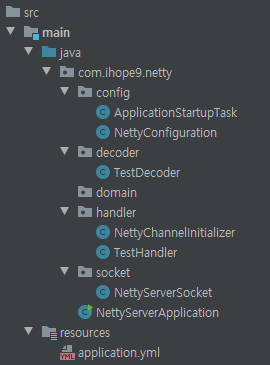
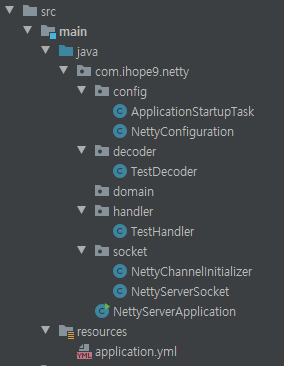
Spring Boot - Netty (2) 완성

diff --git a/_posts/2020-12-14-SpringBoot-Netty-2-SocketServer.md b/_posts/2020-12-14-SpringBoot-Netty-2-SocketServer.md
@@ -1,7 +1,7 @@
 ---
 layout: article
-title: Spring Boot + Netty TCP 소켓 서버 (2) 기본 구조 구현
-tags: [java, spring, netty]
+title: Spring Boot + Netty TCP 소켓 서버 (2) 기본 에코 서버 구현
+tags: [java, spring, netty, tcp/ip]
 aside:
     toc: true
 ---
@@ -10,6 +10,12 @@ aside:
 업무에서 구현한 서버는 gradle 멀티 프로젝트로 구현되어 있습니다. 그리고 네티 소켓 서버는 하위 프로젝트 중 하나입니다. 본 글에서는 단일 프로젝트로 생성하는 방법으로 작성하겠습니다.<br/>
 스프링 프레임워크에 네티를 적용하는 전체 구조는  [만티스쿠바님의 깃허브](https://github.com/zbum/netty-spring-example)를 참고했습니다.
 그 안에서 동작하는 네트의 구성 요소는 [Netty 공식 홈페이지](https://netty.io/wiki/user-guide-for-4.x.html)를 참고했습니다. <br/>
+
+본 서버는 TCP 기반의 서버로, 스트림 기반(stream-base) 송수신입니다. 스트림 기반에서는 데이터가 소켓 내 `receive buffer`에 쌓입니다. 그리고 이 데이터는 패킷 단위로 쌓이지 않고, 바이트 배열로 쌓입니다.
+즉, 클라이언트에서 두 개의 패킷을 따로 전송한다고 해도 **서버는 이를 하나의 바이트 배열**로 받습니다. 따라서 TCP 기반의 서버를 구현할 때는 **쌓여 있는 바이트 배열을 어떤 기준으로 나누어 읽을지 규칙**을 세워야 합니다.<br/>
+
+네티를 사용하며 느낀 강점 중 하나가 바로 이 지점에서 나옵니다. 네티는 바이트 배열을 유의미한 단위로 끊어서 읽을 수 있도록 다양한 `decoder` 클래스를 제공합니다. `decoder`를 잘 구현하면 클라이언트와 합의한 프로토콜에 맞게 패킷을 읽어올 수 있습니다.<br/>
+이 글에서는 클라이언트에서 정해진 길이(2048 bytes)를 하나의 패킷으로 읽어 오는 서버를 예시로 작성하였습니다. 또한, 읽어온 데이터를 다시 그대로 전송하는 에코 서버로 구현했습니다. (실제 업무에서는 이렇게 규약을 세우는 경우는 거의 없겠지만요😅) <br/>
 
 ### build.gradle
 
@@ -31,10 +37,6 @@ dependencies {
 ![Spring-Netty_프로젝트_구조도](/assets/images/structure/spring-netty-basic.png)
 
 ## 소스 코드
-본 서버는 TCP 기반의 서버로, 스트림 기반(stream-base) 송수신입니다. 이러한 데이터는 소켓 내 `receive buffer` 내에 쌓입니다. 스트림 기반 데이터는 패킷 단위로 데이터가 쌓이지 않고, 바이트로 쌓입니다.
-즉, 클라이언트에서 두 개의 패킷을 따로 전송한다고 해도 서버는 이를 하나의 바이트 배열로 받습니다. 따라서 TCP 기반의 서버를 구현할 때는 **쌓여 있는 바이트 배열을 어떤 기준으로 나누어 읽을지 규칙**을 세워야 합니다.<br/>
-네티를 사용하며 느낀 강점 중 하나가 바이트 배열을 유의미한 단위로 끊어서 읽을 수 있도록 많은 `decoder` 클래스를 제공한다는 점입니다. `decoder`를 잘 구현하면 클라이언트와 합의한 프로토콜에 맞게 패킷을 읽어올 수 있습니다.<br/>
-이 글에서는 클라이언트에서 정해진 길이(2048 bytes)를 하나의 패킷으로 읽어 오는 서버를 예시로 작성하였습니다. (실제 업무에서는 이렇게 규약을 세우는 경우는 거의 없겠지만요😅) <br/>
 네티 객체에 대한 설명은 코드 내 주석에 작성했습니다. 클래스는 참고하기 편하도록 구조도 내 패키지 순으로 정리하였습니다.<br/>
 ### root package
 #### NettyServerApplication
@@ -148,6 +150,95 @@ public class NettyConfiguration {
 + 네티 설정을 위한 클래스입니다.
 + `@Value` 어노테이션으로 스프링의 설정 파일(`application.yml` 혹은 `application.properties`)을 읽어 옵니다.
 
+### decoder package
+#### TestDecoder
+```java
+import io.netty.buffer.ByteBuf;
+import io.netty.channel.ChannelHandlerContext;
+import io.netty.handler.codec.ByteToMessageDecoder;
+import lombok.RequiredArgsConstructor;
+import org.springframework.stereotype.Component;
+
+import java.util.List;
+
+@Component
+@RequiredArgsConstructor
+public class TestDecoder extends ByteToMessageDecoder {
+    private int DATA_LENGTH = 2048;
+
+    @Override
+    protected void decode(ChannelHandlerContext ctx, ByteBuf in, List<Object> out) throws Exception {
+        if (in.readableBytes() < DATA_LENGTH) {
+            return;
+        }
+
+        out.add(in.readBytes(DATA_LENGTH));
+    }
+}
+```
++ 정해진 길이(`DATA_LENGTH`)만큼 데이터가 들어올 때까지 기다립니다.
+
+### handler package
+#### TestHandler
+```java
+import io.netty.buffer.ByteBuf;
+import io.netty.channel.ChannelFuture;
+import io.netty.channel.ChannelFutureListener;
+import io.netty.channel.ChannelHandler;
+import io.netty.channel.ChannelHandlerContext;
+import io.netty.channel.ChannelInboundHandlerAdapter;
+import lombok.RequiredArgsConstructor;
+import lombok.extern.slf4j.Slf4j;
+import org.springframework.stereotype.Component;
+
+@Slf4j
+@Component
+@ChannelHandler.Sharable
+@RequiredArgsConstructor
+public class TestHandler extends ChannelInboundHandlerAdapter {
+    private int DATA_LENGTH = 2048;
+        private ByteBuf buff;
+
+        // 핸들러가 생성될 때 호출되는 메소드
+        @Override
+        public void handlerAdded(ChannelHandlerContext ctx) {
+            buff = ctx.alloc().buffer(DATA_LENGTH);
+        }
+
+        // 핸들러가 제거될 때 호출되는 메소드
+        @Override
+        public void handlerRemoved(ChannelHandlerContext ctx) {
+            buff = null;
+        }
+
+        // 클라이언트와 연결되어 트래픽을 생성할 준비가 되었을 때 호출되는 메소드
+        @Override
+        public void channelActive(ChannelHandlerContext ctx) {
+            String remoteAddress = ctx.channel().remoteAddress().toString();
+            log.info("Remote Address: " + remoteAddress);
+        }
+
+
+        @Override
+        public void channelRead(ChannelHandlerContext ctx, Object msg){
+            ByteBuf mBuf = (ByteBuf) msg;
+            buff.writeBytes(mBuf);  // 클라이언트에서 보내는 데이터가 축적됨
+            mBuf.release();
+
+            final ChannelFuture f = ctx.writeAndFlush(buff);
+            f.addListener(ChannelFutureListener.CLOSE);
+        }
+
+        @Override
+        public void exceptionCaught(ChannelHandlerContext ctx, Throwable cause) {
+            // Close the connection when an exception is raised.
+            ctx.close();
+            cause.printStackTrace();
+        }
+
+}
+```
+
 ### socket package
 #### NettyServerSocket
 ```java
@@ -195,7 +286,6 @@ public class NettyServerSocket {
 ```
 + 네티 서버를 실행하는 클래스입니다. 앞서 `ApplicationStartupTask` 클래스에서 스프링 부트 서비스를 시작할 때 본 클래스의 `start()` 메소드를 실행하도록 설정했습니다.
 
-### handler package
 #### NettyChannelInitializer
 ```java
 import com.ihope9.netty.decoder.TestDecoder;
@@ -215,7 +305,7 @@ public class NettyChannelInitializer extends ChannelInitializer<SocketChannel> {
     protected void initChannel(SocketChannel ch) {
         ChannelPipeline pipeline = ch.pipeline();
 
-        // decoder는 @sharable이 안 됨, 매번 새로운 객체 생성해야 함
+        // decoder는 @Sharable이 안 됨, Bean 객체 주입이 안 되고, 매번 새로운 객체 생성해야 함
         TestDecoder testDecoder = new TestDecoder();
 
         // 뒤이어 처리할 디코더 및 핸들러 추가
@@ -224,9 +314,152 @@ public class NettyChannelInitializer extends ChannelInitializer<SocketChannel> {
     }
 }
 ```
++ `initChannel()` 메소드는 클라이언트 소켓 채널이 생성될 때 호출됩니다.
+
+## 테스트
+네티 서버 구현을 완료했습니다. 이제 의도한 바와 같이 클라이언트와 통신이 되는지 확인해보겠습니다.<br/>
+클라이언트는 네티를 사용하지 않고, 자바의 `Socket` 클래스로 개발했습니다. 테스트를 위해 최대한 간결하게 구현했습니다.
+### 클라이언트 구조도
+![Spring-Socket_클라이언트 구조도](/assets/images/structure/spring-netty-client-1.png)
+
+### 클라이언트 소스 코드
+#### ClientSocketApplication
+```java
+import com.ihope9.client.sockets.NonSslSocket;
+
+import java.util.Scanner;
 
 
-_⏳ 업데이트 예정입니다_
+public class ClientSocketApplication {
+
+    public static void main(String[] args) throws InterruptedException {
+        String host = "127.0.0.1";
+        int port = 9999;
+        try {
+            System.out.println("Enter message length: ");
+            Scanner sc = new Scanner(System.in);
+            int messageLength = Integer.parseInt(sc.nextLine());
+
+            NonSslSocket socket = new NonSslSocket(host, port);
+            socket.run(messageLength);
+        }
+        catch (Exception e) {
+            e.printStackTrace();
+        }
+    }
+}
+```
++ 현재 서버에 쓰인 디코더는 정해진 길이만큼 데이터가 들어오기를 기다리도록 구현되어 있습니다. 이를 테스트하기 위해 전송할 메시지 길이를 입력하도록 구현했습니다.
+
+#### ClientSocket
+```java
+import com.google.common.io.ByteStreams;
+import lombok.AllArgsConstructor;
+
+import java.io.IOException;
+import java.io.InputStream;
+import java.io.OutputStream;
+import java.net.Socket;
+import java.util.Arrays;
+
+@AllArgsConstructor
+public class ClientSocket {
+    private Socket socket;
+
+    public void sendFixedLength(int messageLength) {
+        int delimiterLength = 256;
+
+        StringBuilder stringBuilder = new StringBuilder();
+        for (int i = 0; i < messageLength; i++)
+            stringBuilder.append("A");
+        byte[] totalData = stringBuilder.toString().getBytes();
+
+        System.out.println("Sending message");
+        try {
+            OutputStream os = socket.getOutputStream();
+
+            for (int i = 0; i < messageLength / delimiterLength; i++) {
+                byte[] sending = Arrays.copyOfRange(totalData, i * delimiterLength, (i + 1) * delimiterLength);
+                System.out.println("sending... " + (i + 1));
+                os.write(sending);
+                os.flush();
+                Thread.sleep(500);
+            }
+        }
+        catch (InterruptedException | IOException e) {
+            e.printStackTrace();
+        }
+
+        System.out.println("Receiving message");
+        try {
+            InputStream is = socket.getInputStream();
+
+            byte[] reply = new byte[messageLength];
+            ByteStreams.read(is, reply, 0, reply.length);
+
+            System.out.println(new String(reply));
+        }
+        catch (IOException e) {
+            e.printStackTrace();
+        }
+    }
+}
+```
++ `sendFixedLength()`: 콘솔에서 입력한 길이만큼 문자 'A'를 버퍼에 가득 채워 전송합니다.
++ 서버가 정해진 길이만큼 데이터가 들어오기를 기다리는지 확인하기 위해 바이트 배열을 `delimiterLength`씩 나누어 전송합니다.
++ 보낸 데이터를 그대로 전송하는지 확인하기 위해 `InputStream`으로 데이터를 받습니다.
+
+#### NonSslSocket
+```java
+import lombok.AllArgsConstructor;
+
+import java.io.IOException;
+import java.net.InetSocketAddress;
+import java.net.Socket;
+import java.net.SocketAddress;
+
+@AllArgsConstructor
+public class NonSslSocket{
+    private String host;
+    private int port;
+
+    public void run(int messageLength) {
+        try {
+            Socket socket = new Socket();
+            SocketAddress address = new InetSocketAddress(host, port);
+            socket.connect(address);
+
+            ClientSocket clientSocket = new ClientSocket(socket);
+            clientSocket.sendFixedLength(messageLength);
+        } catch (IOException e) {
+            e.printStackTrace();
+        }
+    }
+}
+```
++ SSL을 적용하지 않은 클라이언트 소켓입니다.
+
+### 서버-클라이언트 통신
+이제 모든 구현이 끝났습니다. 테스트를 진행해보겠습니다. <br/>
+
+서버 `NettyServerApplication`의 `main()` 메소드를 먼저 실행해봅니다. 콘솔에 `Started NettyServerApplication in ... ` 메세지가 뜬다면 성공적으로 실행됐다는 뜻입니다. <br/>
+마찬가지로 `ClientSocketApplication`의 `main()` 메소드를 실행합니다. 전송하려는 메시지 길이를 입력하라는 문구가 뜹니다.
+![Spring-Netty_기초_테스트_1](/assets/images/test-console/spring-netty-basic-test-1.png) <br/>
+서버 디코더에 설정한 고정된 길이, 2048을 입력해봅니다.
+![Spring-Netty_기초_테스트_2](/assets/images/test-console/spring-netty-basic-test-2.png) <br/>
+잘 전송되었네요! 에코 서버로부터 다시 받은 메세지도 처음 보낸 그대로(AAAA...)입니다.
+![Spring-Netty_기초_테스트_3](/assets/images/test-console/spring-netty-basic-test-3.png) <br/>
+서버에서도 클라이언트와 연결되었을 때 호출되는 `channelActive()` 메소드의 로그가 잘 찍혀 있습니다.
+
+
+만약 정해진 길이 2048 보다 짧은 길이를 입력하면 어떻게 될까요?
+![Spring-Netty_기초_테스트_3](/assets/images/test-console/spring-netty-basic-test-4.png) <br/>
+서버에서 클라이언트와 연결도 잘 되었고, 클라이언트는 데이터 전송을 성공했지만 응답을 받지 못합니다. 즉, **서버의 디코더에 아직 2048 바이트가 쌓이지 않아** 서버에서 아무런 응답을 하지 않고 있음을 확인할 수 있습니다.
+
+***
+지금까지 스프링-네티를 활용한 에코 서버를 구현했습니다. 또한 이를 테스트하기 위한 클라이언트도 간단히 구현해보았습니다.<br/>
+스프링-네티 서버의 기본적인 구조를 파악하고, 매우 기본이 되는 디코더를 이해하는 데 도움이 되셨기를 바랍니다🤗!
+
 <!--more-->
 
 ---

diff --git a/_posts/2020-12-08-SpringBoot-Netty-1-Background.md b/_posts/2020-12-08-SpringBoot-Netty-1-Background.md
@@ -1,7 +1,7 @@
 ---
 layout: article
 title: Spring Boot + Netty TCP 소켓 서버 (1) 프레임워크 선택 배경
-tags: [java, spring, netty]
+tags: [java, spring, netty, tcp/ip]
 aside:
     toc: true
 ---
